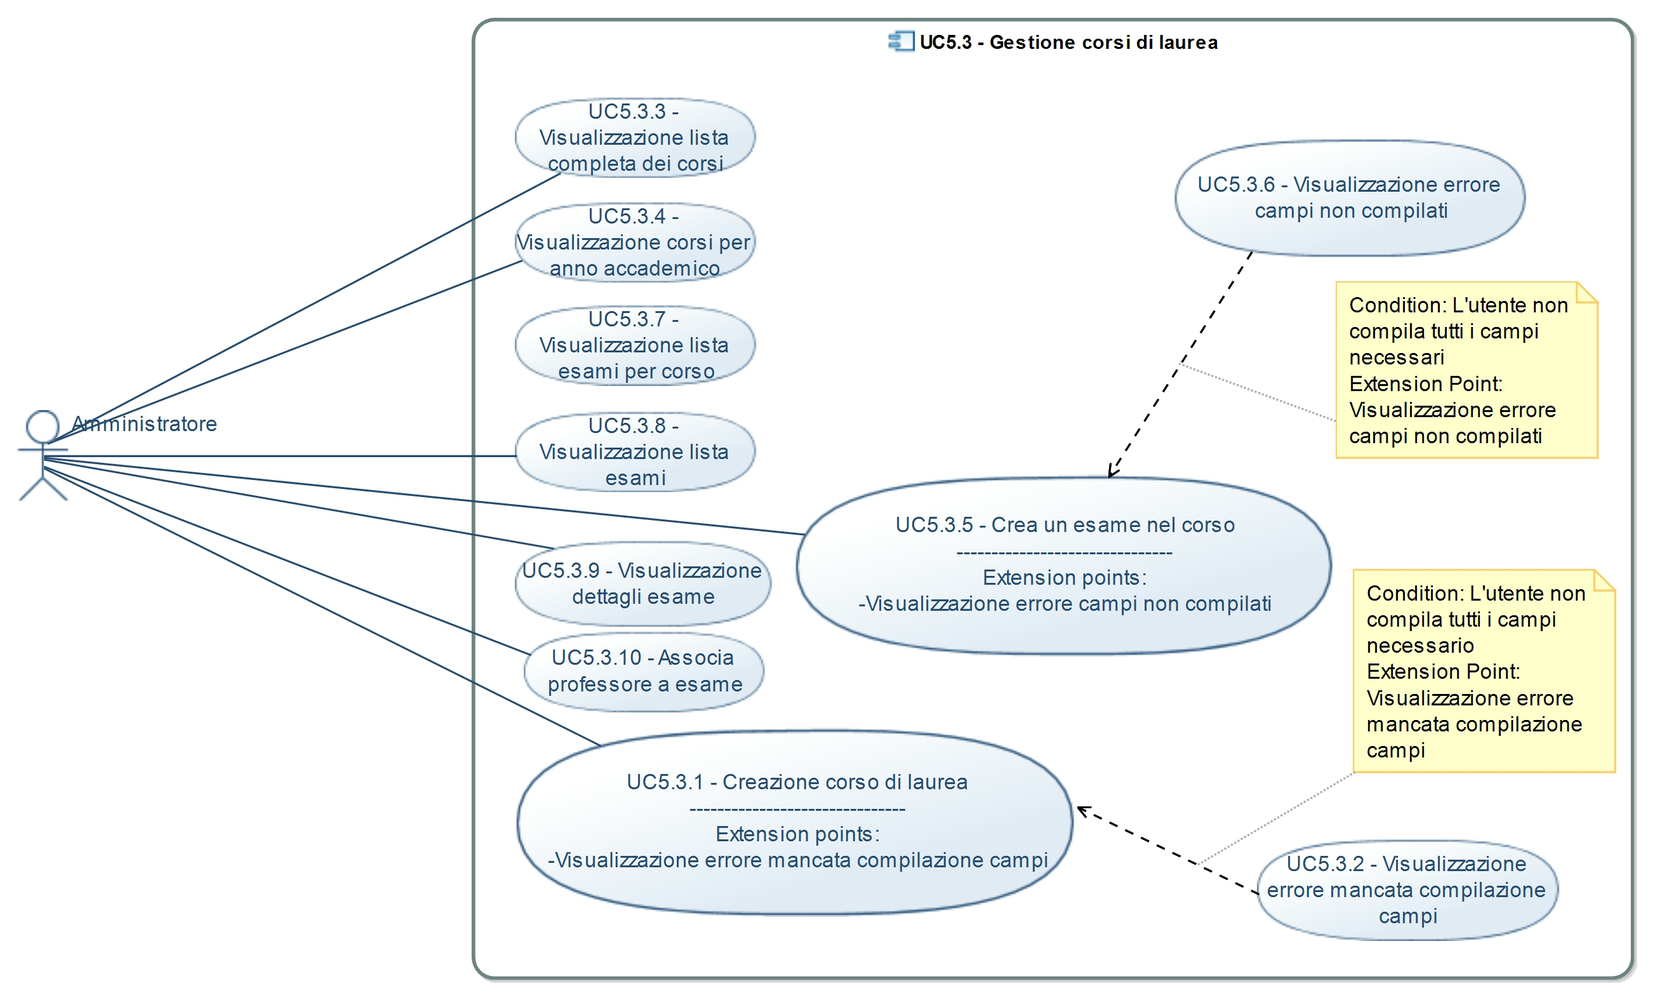
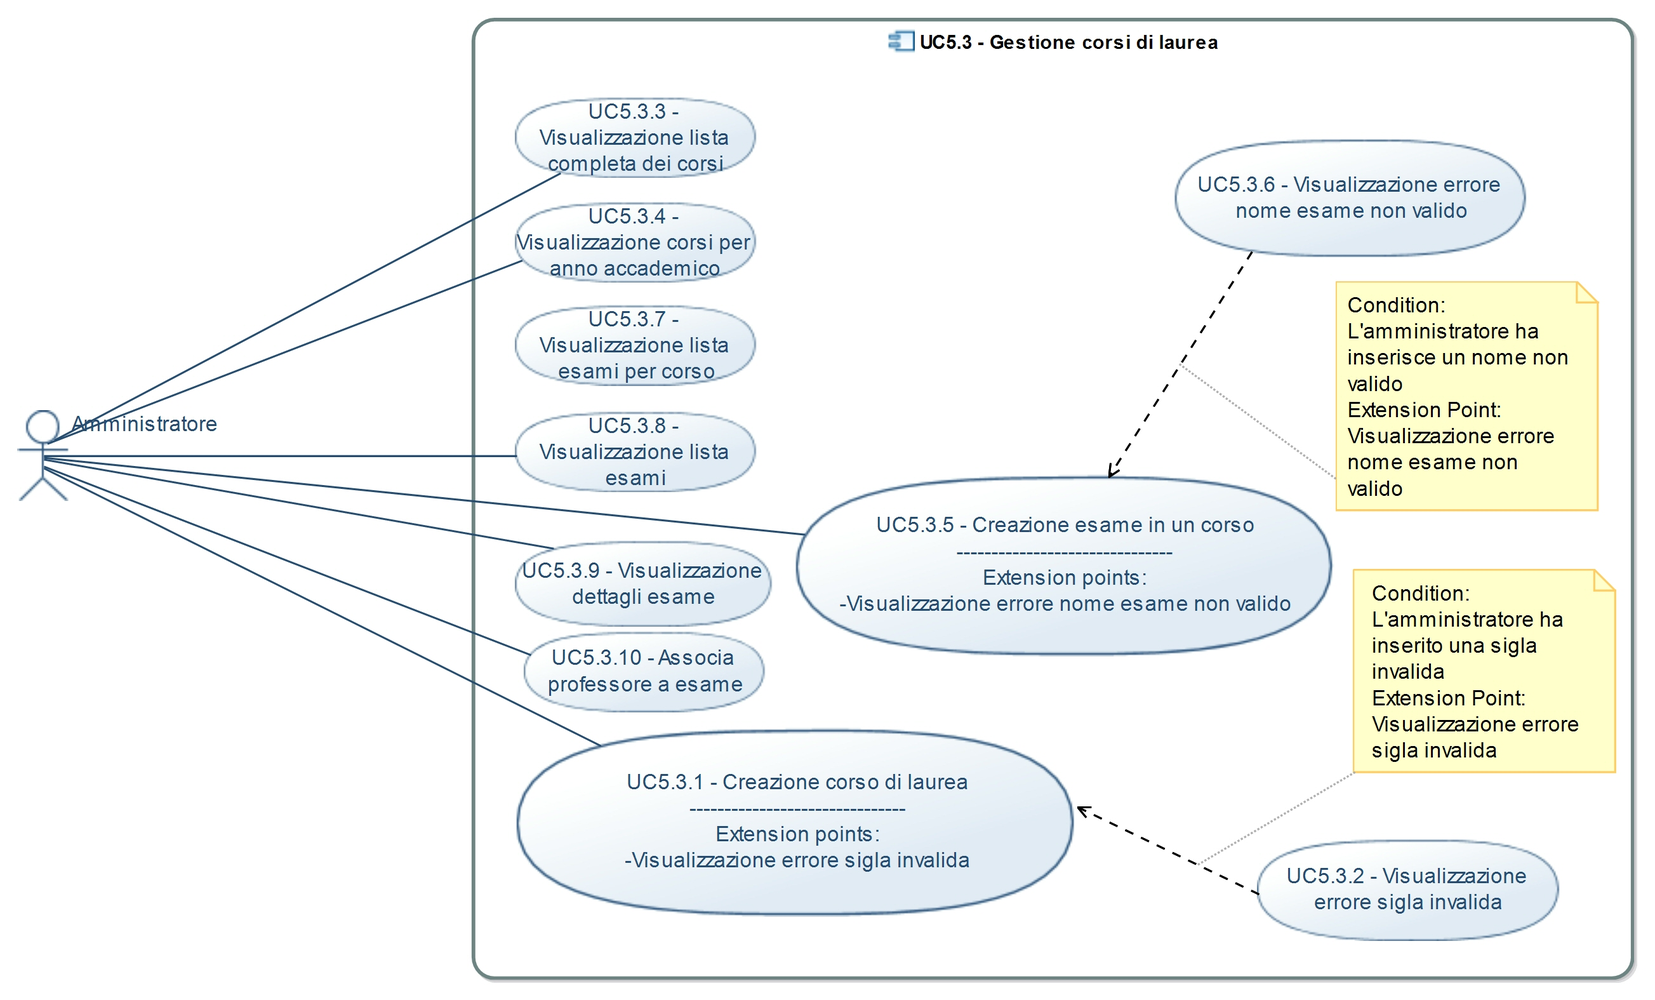
Corretto UC5.3.10, manca UML

diff --git a/Esterni/AnalisiDeiRequisiti/CasiDUso.tex b/Esterni/AnalisiDeiRequisiti/CasiDUso.tex
@@ -213,10 +213,10 @@
 \subsection{UC3.4 - Selezione corso}
 \begin{itemize}
 	\item \textbf{Attori Primari:} utente non autenticato;
-	\item \textbf{Scopo e Descrizione} il sistema offre l'interfaccia per selezionare il \citGloss{corso di laurea} desiderato;
+	\item \textbf{Scopo e Descrizione} il sistema offre l'interfaccia per selezionare il \citGloss{corso di laurea} desiderato da un elenco, specificando per ognuno la sigla di riferimento;
 	\item \textbf{Scenario principale:} l'utente seleziona tramite un dispositivo di input il \citGloss{corso di laurea} scelto;
 	\item \textbf{Precondizione:} l'utente ha selezionato la registrazione come studente, il sistema offre un campo per la selezione del \citGloss{corso di laurea} e rimane in attesa dell'input;
-	\item \textbf{Postcondizione:} l'utente ha selezionato il suo \citGloss{corso di laurea} nel campo fornito dal sistema e termina la procedura di registrazione.
+	\item \textbf{Postcondizione:} l'utente ha selezionato il \citGloss{corso di laurea} desiderato e termina la procedura di registrazione.
 \end{itemize}
 
 \subsection{UC3.5 - Visualizzazione errore campo non compilato}
@@ -296,24 +296,24 @@
 \subsection{UC5.1.1 - Visualizzazione lista di studenti}
 \begin{itemize}
 	\item \textbf{Attori primari:} amministratore;
-	\item \textbf{Scopo e descrizione:} l'amministratore visualizza una lista di tutti gli studenti registrati nel sistema;
-	\item \textbf{Scenario principale:} l'amministratore richiede al sistema una lista di studenti per poterli gestire;
+	\item \textbf{Scopo e descrizione:} l'amministratore visualizza una lista di tutti gli studenti registrati nel sistema, visualizzando per ogni studente chiave, nome, cognome e corso;
+	\item \textbf{Scenario principale:} l'amministratore richiede al sistema una lista di studenti per poterli visualizzare e eventualmente gestire;
 	\item \textbf{Precondizione:} l'amministratore è nell'area di gestione utenti e richiede una lista di tutti gli studenti; 
 	\item \textbf{Postcondizione:} l'amministratore ottiene la lista.
 \end{itemize}
 \subsection{UC5.1.2 - Visualizzazione lista di professori}
 \begin{itemize}
 	\item \textbf{Attori primari:} amministratore;
-	\item \textbf{Scopo e descrizione:} l'amministratore visualizza una lista di tutti i professori registrati nel sistema;
-	\item \textbf{Scenario principale:} l'amministratore richiede al sistema una lista di professori per poterli gestire;
+	\item \textbf{Scopo e descrizione:} l'amministratore visualizza una lista di tutti i professori registrati nel sistema, visualizzando per ogni professore chiave, nome e cognome;
+	\item \textbf{Scenario principale:} l'amministratore richiede al sistema una lista di professori per poterli visualizzare ed eventualmente gestire;
 	\item \textbf{Precondizione:} l'amministratore è nell'area di gestione utenti e richiede una lista di tutti i professori; 
 	\item \textbf{Postcondizione:} l'amministratore ottiene la lista.
 \end{itemize}
 \subsection{UC5.1.3 - Visualizzazione lista di utenti in attesa di abilitazione}
 \begin{itemize}
 	\item \textbf{Attori primari:} amministratore;
-	\item \textbf{Scopo e descrizione:} l'amministratore visualizza una lista di tutti gli studenti ancora non abilitati;
-	\item \textbf{Scenario principale:} l'amministratore richiede al sistema una lista di studenti in attesa di abilitazione per poterli gestire;
+	\item \textbf{Scopo e descrizione:} l'amministratore visualizza una lista di tutti gli utenti ancora non abilitati, ottenendo per ognuno chiave, nome, cognome e ruolo, nel caso si tratti di studenti anche il corso;
+	\item \textbf{Scenario principale:} l'amministratore richiede al sistema una lista di utenti in attesa di abilitazione per poterli gestire;
 	\item \textbf{Precondizione:} l'amministratore è nell'area di gestione studenti e richiede una lista di studenti in attesa di abilitazione; 
 	\item \textbf{Postcondizione:} l'amministratore ottiene la lista.
 \end{itemize}
@@ -326,8 +326,8 @@
 		\item L'amministratore visualizza la lista degli utenti in attesa di abilitazione [UC5.1.3];
 		\item L'amministratore lo abilita [UC5.1.4].
 	\end{enumerate}
-	\item \textbf{Precondizione:} l'amministratore ha richiesto una lista di utenti non abilitati; 
-	\item \textbf{Postcondizione:} l'utente selezionato viene abilitato e il suo stato viene aggiornato nel sistema.
+	\item \textbf{Precondizione:} l'amministratore ha richiesto una lista di utenti non abilitati ed ha individuato l'account che desidera abilitare; 
+	\item \textbf{Postcondizione:} l'utente indicato viene abilitato e il suo stato viene aggiornato nel sistema.
 \end{itemize}
 \subsection{UC5.1.5 - Rimozione utente}
 \begin{itemize}
@@ -338,15 +338,15 @@
 		\item L'amministratore visualizza gli utenti abilitati o in attesa di abilitazione e ne seleziona uno [UC5.1.1 o UC5.1.2 o UC5.3];
 		\item L'amministratore rimuove l'utente selezionato [UC5.1.5].
 	\end{enumerate}
-	\item \textbf{Precondizione:} l'amministratore ha richiesto una lista di studenti o professori; 
-	\item \textbf{Postcondizione:} l'utente selezionato viene rimosso dal sistema.
+	\item \textbf{Precondizione:} l'amministratore ha richiesto una lista di studenti o professori ed ha individuato l'account che desidera rimuovere;
+	\item \textbf{Postcondizione:} l'utente indicato viene rimosso dal sistema.
 \end{itemize}
 \subsection{UC5.2 - Gestione anni accademici}
 \begin{itemize}
 	\item \textbf{Attori primari:} amministratore;
 	\item \textbf{Scopo e descrizione:} l'amministratore è in grado di eseguire operazioni sugli anni accademici dell'ateneo;
 	\item \textbf{Scenario principale:} l'amministratore visualizza una lista di operazioni eseguibili sugli anni accademici e ne sceglie una;
-	\item \textbf{Precondizione:} l'amministratore ha scelto di gestire gli anni accademeici; 
+	\item \textbf{Precondizione:} l'amministratore ha scelto di gestire gli anni accademici; 
 	\item \textbf{Postcondizione:} l'amministratore è a conoscenza delle possibili operazioni da eseguire sugli anni accademici e ne ha scelta una.
 \end{itemize}
 
@@ -360,11 +360,11 @@
 \subsection{UC5.2.1 - Aggiunta anno accademico}
 \begin{itemize}
 	\item \textbf{Attori primari:} amministratore;
-	\item \textbf{Scopo e descrizione:} l'amministratore aggiunge un \citGloss{anno accademico} nel sistema;
-	\item \textbf{Scenario principale:} l'amministratore inserisce il numero dell'anno da aggiungere in un campo fornito dal sistema;
+	\item \textbf{Scopo e descrizione:} l'amministratore aggiunge un \citGloss{anno accademico} nel sistema fornendo l'anno solare di riferimento;
+	\item \textbf{Scenario principale:} l'amministratore inserisce il numero dell'anno solare da aggiungere in un campo fornito dal sistema;
 	\item \textbf{Estensioni:}
 	\begin{enumerate}
-		\item Se l'amministratore inserisce un'anno non numerico viene mostrato un messaggio d'errore relativo alla malformazione dell'anno [UC5.2.4];
+		\item Se l'amministratore inserisce un anno non numerico viene mostrato un messaggio d'errore relativo alla invalidità del dato fornito [UC5.2.4];
 		\item Se l'amministratore inserisce un'anno già presente nel sistema viene mostrato un messaggio d'errore relativo alla non univocità dell'anno [UC5.2.5];
 		\item Se l'amministratore lascia il campo vuoto l'utente viene avvisato con un relativo messaggio d'errore [UC5.2.6].
 	\end{enumerate}
@@ -374,7 +374,7 @@
 \subsection{UC5.2.2 - Visualizzazione lista di tutti gli anni accademici}
 \begin{itemize}
 	\item \textbf{Attori primari:} amministratore;
-	\item \textbf{Scopo e descrizione:} l'amministratore visualizza una lista di tutti gli anni accademici presenti nel sistema;
+	\item \textbf{Scopo e descrizione:} l'amministratore visualizza una lista di tutti gli anni accademici presenti nel sistema, visualizzandone l'anno solare di riferimento;
 	\item \textbf{Scenario principale:} l'amministratore richiede la lista di tutti gli anni del sistema;
 	\item \textbf{Precondizione:} l'amministratore è nell'area di gestione Anni Accademici e vuole ottenere la lista di tutti gli anni presenti nel sistema; 
 	\item \textbf{Postcondizione:} l'amministratore ottiene la lista.
@@ -422,7 +422,7 @@
 \subsection{UC5.3.1 - Creazione corso di laurea}
 \begin{itemize}
 	\item \textbf{Attori primari:} amministratore;
-	\item \textbf{Scopo e descrizione:} l'amministratore crea un nuovo corso di laurea associato ad un \citGloss{anno accademico};
+	\item \textbf{Scopo e descrizione:} l'amministratore crea un nuovo corso di laurea associato ad un \citGloss{anno accademico}, indicando la sigla da utilizzare per riferirsi al corso;
 	\item \textbf{Scenario principale:}
 		\begin{enumerate}
 			\item L'amministratore ottiene una lista degli anni accademici e seleziona quello di suo interesse [UC5.2.2];
@@ -430,22 +430,22 @@
 		\end{enumerate}
 	\item \textbf{Estensioni:}
 		\begin{enumerate}
-			\item Se l'amministratore non inserisce tutti i campi viene avvisato dal sistema [UC5.3.2].
+			\item Se l'amministratore inserisce una sigla invalida viene avvisato con un messaggio [UC5.3.2].
 		\end{enumerate}
 	\item \textbf{Precondizione:} l'amministratore vuole inserire un nuovo corso di laurea associato ad un \citGloss{anno accademico}; 
 	\item \textbf{Postcondizione:} il \citGloss{corso di laurea} è stato creato ed inserito nel sistema.
 \end{itemize}
-\subsection{UC5.3.2 - Visualizzazione errore mancata compilazione campi}
+\subsection{UC5.3.2 - Visualizzazione errore sigla invalida}
 \begin{itemize}
 	\item \textbf{Attori primari:} amministratore;
-	\item \textbf{Scopo e descrizione:} viene mostrato un messaggio d'errore per avvisare l'amministratore che non ha compilato i campi necessari;
-	\item \textbf{Scenario principale:} il sistema mostra all'amministratore che non ha compilato tutti i campi;
-	\item \textbf{Precondizione:} l'amministratore ha tentato di creare un \citGloss{corso di laurea} senza compilare tutti i campi; 
-	\item \textbf{Postcondizione:} l'amministratore è consapevole di non aver inserito tutti i campi necessari.
+	\item \textbf{Scopo e descrizione:} viene mostrato un messaggio d'errore per avvisare l'amministratore che non è possibile utilizzare la sigla inserita, in quanto non rispetta il pattern indicato dal sistema oppure risulta già in uso;
+	\item \textbf{Scenario principale:} il sistema avvisa l'amministratore che non è possibili utilizzare la sigla indicata;
+	\item \textbf{Precondizione:} l'amministratore ha tentato di creare un \citGloss{corso di laurea} utilizzando una sigla che non rispetta i requisiti indicati dal sistema; 
+	\item \textbf{Postcondizione:} l'amministratore è consapevole di non poter utilizzare quella determinata sigla per la creazione di un nuovo corso.
 \end{itemize}\subsection{UC5.3.3 - Visualizzazione lista completa dei corsi}
 \begin{itemize}
 	\item \textbf{Attori primari:} amministratore;
-	\item \textbf{Scopo e descrizione:} vengono mostrati tutti i corsi di laurea presenti nel sistema;
+	\item \textbf{Scopo e descrizione:} vengono mostrati tutti i corsi di laurea presenti nel sistema, visualizzandone il nome;
 	\item \textbf{Scenario principale:} l'amministratore visualizza tutti i corsi di laurea presenti nel sistema;
 	\item \textbf{Precondizione:} l'amministratore ha richiesto la visualizzazione di tutti i corsi di laurea; 
 	\item \textbf{Postcondizione:} l'amministratore ottiene la lista.
@@ -453,7 +453,7 @@
 \subsection{UC5.3.4 - Visualizzazione lista corsi di laurea per anno accademico}
 \begin{itemize}
 	\item \textbf{Attori primari:} amministratore;
-	\item \textbf{Scopo e descrizione:} vengono visualizzati i corsi di laurea relativi ad un determinato \citGloss{anno accademico};
+	\item \textbf{Scopo e descrizione:} vengono visualizzati i corsi di laurea relativi ad un determinato \citGloss{anno accademico}, ottenendone i nomi;
 	\item \textbf{Scenario principale:}
 	\begin{enumerate}
 		\item L'amministratore ottiene una lista degli anni accademici e seleziona quello di suo interesse [UC5.2.2];
@@ -462,30 +462,30 @@
 	\item \textbf{Precondizione:} l'amministratore ha visualizzato una lista di anni accademici [UC5.2.2] e vuole visualizzare i corsi di laurea all'interno di uno di essi; 
 	\item \textbf{Postcondizione:} l'amministratore ottiene la lista desiderata.
 \end{itemize}
-\subsection{UC5.3.5 - Crea un esame nel corso}
+\subsection{UC5.3.5 - Creazione esame in un corso}
 \begin{itemize}
 	\item \textbf{Attori primari:} amministratore;
 	\item \textbf{Scopo e descrizione:} l'amministratore crea ed assegna un esame all'interno di un \citGloss{corso di laurea};
-	\item \textbf{Scenario principale:} l'amministratore inserisce i dati necessari per la creazione dell'esame;
+	\item \textbf{Scenario principale:} l'amministratore inserisce il nome dell'esame che desidera creare e seleziona la quantità di crediti;
 	\item \textbf{Estensioni:}
 	\begin{enumerate}
-		\item Se l'amministratore non compila tutti i campi viene visualizzato un messaggio d'errore [UC5.3.4].
+		\item Se l'amministratore inserisce un nome invalido ottiene un messaggio d'errore [UC5.3.4].
 	\end{enumerate}
-	\item \textbf{Precondizione:} l'amministratore ha ottenuto una lista di corsi di laurea per \citGloss{anno accademico} [UC5.3.3] e ne ha selezionato uno, volendo creare un esame al su interno; 
+	\item \textbf{Precondizione:} l'amministratore ha ottenuto una lista di corsi di laurea per \citGloss{anno accademico} [UC5.3.3] e ne ha selezionato uno, volendo creare un esame al suo interno; 
 	\item \textbf{Postcondizione:} l'esame viene inserito nel sistema e associato al \citGloss{corso di laurea} selezionato.
 \end{itemize}
-\subsection{UC5.3.6 - Visualizzazione errore campi non compilati nella creazione dell'esame}
+\subsection{UC5.3.6 - Visualizzazione errore nome esame non valido}
 \begin{itemize}
 	\item \textbf{Attori primari:} amministratore;
-	\item \textbf{Scopo e descrizione:} viene mostrato un messaggio d'errore relativo alla mancata compilazione dei campi associati all'esame;
+	\item \textbf{Scopo e descrizione:} viene mostrato un messaggio d'errore relativo all'invalidità del nome del corso, in quanto non rispetta un pattern indicato dal sistema oppure già utilizzato;
 	\item \textbf{Scenario principale:} l'amministratore visualizza il messaggio d'errore;
-	\item \textbf{Precondizione:} l'amministratore tenta di creare un esame senza compilare tutti i campi obbligatori; 
-	\item \textbf{Postcondizione:} l'amministratore è a conoscenza di non aver compilato tutti i campi necessari.
+	\item \textbf{Precondizione:} l'amministratore tenta di creare un esame utilizzando un nome che non rispetta i requisiti indicati dal sistema; 
+	\item \textbf{Postcondizione:} l'amministratore è a conoscenza di aver inserito un nome invalido.
 \end{itemize}
 \subsection{UC5.3.7 - Visualizzazione lista esami per corso}
 \begin{itemize}
 	\item \textbf{Attori primari:} amministratore;
-	\item \textbf{Scopo e descrizione:} vengono visualizzati gli esami relativi ad un determinato \citGloss{corso di laurea};
+	\item \textbf{Scopo e descrizione:} vengono visualizzati gli esami relativi ad un determinato \citGloss{corso di laurea}, con indicato per ognuno di essi il nome, il numero di crediti e, se presente, il nome ed il cognome del professore assegnatogli;
 	\item \textbf{Scenario principale:}
 	\begin{enumerate}
 		\item L'amministratore ottiene una lista dei corsi di laurea e seleziona quello di suo interesse [UC5.3.3 o UC5.3.4];
@@ -497,7 +497,7 @@
 \subsection{UC5.3.8 - Visualizzazione lista esami}
 \begin{itemize}
 	\item \textbf{Attori primari:} amministratore;
-	\item \textbf{Scopo e descrizione:} vengono visualizzati gli esami all'interno del sistema;
+	\item \textbf{Scopo e descrizione:} vengono visualizzati gli esami all'interno del sistema, con indicato per ognuno di essi il nome, il numero di crediti e, se presente, il nome ed il cognome del professore assegnatogli;
 	\item \textbf{Scenario principale:} l'amministratore visualizza la lista di tutti gli esami presenti nel sistema;
 	\item \textbf{Precondizione:} l'amministratore vuole vedere tutti gli esami presenti nel sistema; 
 	\item \textbf{Postcondizione:} l'amministratore ottiene la lista desiderata.
@@ -506,13 +506,13 @@
 \subsection{UC5.3.9 - Visualizzazione dettagli esame}
 \begin{itemize}
 	\item \textbf{Attori primari:} amministratore;
-	\item \textbf{Scopo e descrizione:} l'amministratore visualizza i dati relativi ad uno specifico esame, come crediti e professore associato;
+	\item \textbf{Scopo e descrizione:} l'amministratore visualizza il nome dell'esame, la relativa quantità di crediti, il nome, cognome e chiave del professore associato ed il numero di studenti iscritti.
 	\item \textbf{Scenario principale:}
 	\begin{enumerate}
 		\item L'amministratore ottiene una lista degli esami e seleziona quello di suo interesse [UC5.3.7 o UC5.3.8];
-		\item Il sistema mostra una schermata informativa contenente i dati relativi al numero di crediti dell'esame e il professore associato ad esso [UC5.3.9].
+		\item Il sistema mostra una schermata informativa contenente i dati relativi all'esame [UC5.3.9].
 	\end{enumerate}
-	\item \textbf{Precondizione:} l'amministratore vuole visualizzare i dettagli di un esame e ha richiesto una lista di esami [UC5.3.7 o UC5.3.8]; 
+	\item \textbf{Precondizione:} l'amministratore vuole visualizzare i dettagli di un esame dopo averlo individuato in una elenco di esami [UC5.3.7 o UC5.3.8]; 
 	\item \textbf{Postcondizione:} l'amministratore ha ottenuto le informazioni ricercate.
 \end{itemize}
 \subsection{UC5.3.10 - Associa professore a esame}
@@ -534,28 +534,28 @@
 	\caption{UC5.3.10 - Associazione professore a esame}
 	\label{fig:UC5.3.10 - Associazione professore a esame}
 \end{figure}
-\subsection{UC5.3.10.1 - Selezione esame}
+\subsection{UC5.3.10.1 - Visualizzazione lista di esami non ancora assegnati}
 \begin{itemize}
-	\item \textbf{Attori primari:} amministratore;
-	\item \textbf{Scopo e descrizione:} l'amministratore seleziona l'esame desiderato;
-	\item \textbf{Scenario principale:} l'amministratore seleziona da una lista l'esame a cui associare un professore;
-	\item \textbf{Precondizione:} l'amministratore ha visualizzato una lista di esami [UC5.3.7 o UC5.3.8] e vuole associare un professore ad uno di essi; 
-	\item \textbf{Postcondizione:} l'amministratore ha selezionato un esame a cui associare un professore.
+\item \textbf{Attori primari:} amministratore;
+\item \textbf{Scopo e descrizione:} l'amministratore ottiene una lista dei nomi degli esami che non presentano un professore associato;
+\item \textbf{Scenario principale:} l'amministratore ottiene una lista di esami ai quali può associare un nuovo professore, essendone sprovvisti;
+\item \textbf{Precondizione:} l'amministratore desidera ottenere una lista di esami sprovvisti di professore associato; 
+\item \textbf{Postcondizione:} l'amministratore ottiene la lista richiesta e può procedere a identificare l'esame di suo interesse.
 \end{itemize}
-\subsection{UC5.3.10.2 - Visualizzazione lista professori non associati ad un determinato esame}
+\subsection{UC5.3.10.2 - Visualizzazione lista professori selezionato un esame}
 \begin{itemize}
 	\item \textbf{Attori primari:} amministratore;
-	\item \textbf{Scopo e descrizione:} l'amministratore visualizza una lista di professori non associati all'esame selezionato;
-	\item \textbf{Scenario principale:} il sistema mostra all'amministratore una lista di professori non associati con l'esame selezionato;
-	\item \textbf{Precondizione:} l'amministratore ha selezionato l'esame desiderato [UC5.3.10.1] e vuole vedere i professori non associati ad esso;  
-	\item \textbf{Postcondizione:} l'amministratore è a conoscenza dei professori non associati all'esame selezionato.
+	\item \textbf{Scopo e descrizione:} l'amministratore visualizza una lista dei nomi, cognomi e indirizzi dei professori per identificare quale assegnare all'esame precedentemente indicato;
+	\item \textbf{Scenario principale:} il sistema mostra all'amministratore una lista di professori in modo da consentire la scelta di quale associare all'esame precedentemente indicato;
+	\item \textbf{Precondizione:} l'amministratore ha selezionato l'esame desiderato [UC5.3.10.1] e desidera ottenere la lista dei professori per poterne associare uno;  
+	\item \textbf{Postcondizione:} l'amministratore è a conoscenza dell'elenco dei professori.
 \end{itemize}
-\subsection{UC5.3.10.3 - Selezione professore}
+\subsection{UC5.3.10.3 - Associazione professore all'esame}
 \begin{itemize}
 	\item \textbf{Attori primari:} amministratore;
-	\item \textbf{Scopo e descrizione:} l'amministratore associa un professore ad un esame selezionato;
-	\item \textbf{Scenario principale:} l'amministratore seleziona da una lista il professore desiderato;
-	\item \textbf{Precondizione:} l'amministratore ha selezionato un esame [UC5.3.10.1] e ha ottenuto una lista di professori non associati ad esso [UC5.3.1.2], volendo associarne uno; 
+	\item \textbf{Scopo e descrizione:} l'amministratore associa un professore dopo averlo individuato in una lista contenente tutti i professori ad un esame che ne è ancora sprovvisto;
+	\item \textbf{Scenario principale:} l'amministratore associa ad un esame un determinato professore;
+	\item \textbf{Precondizione:} l'amministratore ha selezionato un esame sprovvisto di assegnazione a un professore [UC5.3.10.1] e ha ottenuto una lista di professori [UC5.3.1.2], volendo associarne uno; 
 	\item \textbf{Postcondizione:} il professore selezionato viene associato all'esame desiderato.
 \end{itemize}
 

diff --git a/Esterni/AnalisiDeiRequisiti/Requisiti.tex b/Esterni/AnalisiDeiRequisiti/Requisiti.tex
@@ -263,17 +263,18 @@ Qualsiasi operazione effettuata in una rete \citGloss{Ethereum} reale ha un temp
 	UC5.2.5 & Visualizzazione messaggio anno non compilato &  R0F3.1 \\  
 	UC5.3 & Gestione corsi di laurea &  R0F3.3 \\   
 	UC5.3.1 & Creazione \citGloss{corso di laurea} &  R0F3.3.1 \\  
-	UC5.3.2 & Visualizzazione errore mancata compilazione campi & R0F3.3.1 \\  
+	UC5.3.2 & Visualizzazione errore sigla invalida & R0F3.3.1 \\  
 	UC5.3.3 & Visualizzazione lista completa dei corsi &  R0F3.3.2 \\  
 	UC5.3.4 & Visualizzazione lista corsi di laurea per \citGloss{anno accademico} & R0F3.3.2  \\  
-	UC5.3.5 & Crea un esame nel corso &  R0F3.3.3\\  
-	UC5.3.6 & Visualizzazione errore campi non compilati nella creazione dell'esame & R0F3.3.3  \\  
+	UC5.3.5 & Creazione esame in un corso &  R0F3.3.3\\  
+	UC5.3.6 & Visualizzazione errore nome esame non valido & R0F3.3.3  \\  
 	UC5.3.7 & Visualizzazione lista esami per \citGloss{corso di laurea} & R0F3.3.4 \\  
 	UC5.3.8 & Visualizzazione lista esami &  R0F3.3.4 \\  
-	%UC5.3.10 & Rimozione esame da un corso &  R0F3.3.4 \\  
-	UC5.3.10 & Associazione professore a esame & R0F3.3.4.2 \\  
-	%UC5.3.12 & Rimozione \citGloss{corso di laurea} da \citGloss{anno accademico} & R2F34 \\  
 	UC5.3.9 & Visualizzazione dettagli esame & R0F3.3.4.1 \\  
+	UC5.3.10 & Associazione professore a esame & R0F3.3.4.2 \\
+	UC5.3.10.1 & Visualizzazione lista di esami non ancora assegnati & R0F3.3.4.2 \\ 
+	UC5.3.10.2 & Visualizzazione lista professori selezionato un esame & R0F3.3.4.2 \\ 
+	UC5.3.10.3 & Associazione professore all'esame & R0F3.3.4.2 \\ 
 	%-----------------------------------------------------
 	UC6 & Gestione aspetti relativi agli esami & R0F4 \\  
 	UC6.1 & Visualizzazione lista degli esami & R0F4.1 \\  
@@ -384,11 +385,15 @@ Qualsiasi operazione effettuata in una rete \citGloss{Ethereum} reale ha un temp
 		UC5.3.8
 	} \\  
 	R0F3.3.4.1 &  L'amministratore può ottenere l'informazione di quale professore è assegnato a un determinato esame & \makecell[tl]{
-		Interno
+		Interno \\ 
+		UC5.3.9 	
 	} \\  
 	R0F3.3.4.2  &  L'amministratore può associare ad un esame il relativo professore & \makecell[tl]{
-		Interno \\ 
-		UC5.3.9
+		Interno	 \\ 
+		UC5.3.10 \\ 
+		UC5.3.10.1 \\ 
+		UC5.3.10.2 \\ 
+		UC5.3.10.3 \\ 	
 	} \\  
 	R0F4 &  Un professore può gestire gli esami a lui assegnati & \makecell[tl]{
 		Capitolato \\ 
